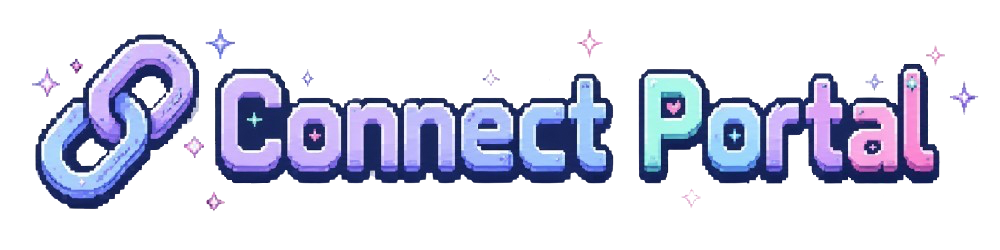
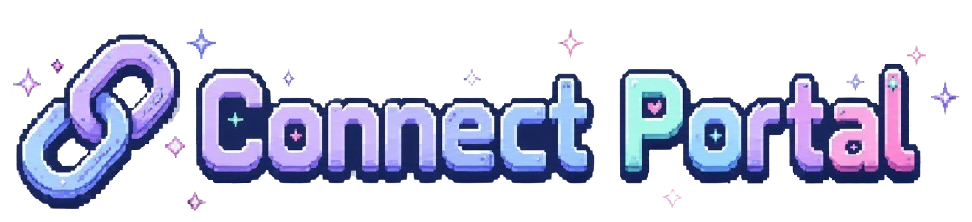
수정

diff --git a/README.md b/README.md
@@ -9,7 +9,7 @@
 ---
 
 <p align="center">
-  <img src="./assets/about.png" alt="🐾 About" height="55" />
+  <img src="./assets/about.png" alt="🐾 About" height="66" />
 </p>
 
 ```yaml
@@ -30,25 +30,29 @@ kyoung9:
 ---
 
 <p align="center">
-  <img src="./assets/skills_inventory.png" alt="🧰 Skills Inventory" height="80" />
+  <img src="./assets/skills_inventory.png" alt="🧰 Skills Inventory" height="100" />
 </p>
 
 <div align="center">
   <table>
     <tr>
-      <td><img src="https://img.shields.io/badge/Next.js-000000?style=flat-square&logo=nextdotjs&logoColor=white" /></td>
-      <td><img src="https://img.shields.io/badge/React-61DAFB?style=flat-square&logo=react&logoColor=black" /></td>
-      <td><img src="https://img.shields.io/badge/TypeScript-3178C6?style=flat-square&logo=typescript&logoColor=white" /></td>
-      <td><img src="https://img.shields.io/badge/Python-3776AB?style=flat-square&logo=python&logoColor=white" /></td>
+      <td align="center">
+        <img src="https://img.shields.io/badge/Next.js-000000?style=flat-square&logo=nextdotjs&logoColor=white" />
+        <img src="https://img.shields.io/badge/React-61DAFB?style=flat-square&logo=react&logoColor=black" />
+        <img src="https://img.shields.io/badge/TypeScript-3178C6?style=flat-square&logo=typescript&logoColor=white" />
+        <img src="https://img.shields.io/badge/Python-3776AB?style=flat-square&logo=python&logoColor=white" />
+      </td>
     </tr>
     <tr>
-      <td><img src="https://img.shields.io/badge/AWS-232F3E?style=flat-square&logo=amazonaws&logoColor=white" /></td>
-      <td><img src="https://img.shields.io/badge/Supabase-3FCF8E?style=flat-square&logo=supabase&logoColor=white" /></td>
-      <td><img src="https://img.shields.io/badge/PostgreSQL-4169E1?style=flat-square&logo=postgresql&logoColor=white" /></td>
-      <td><img src="https://img.shields.io/badge/OpenAI-412991?style=flat-square&logo=openai&logoColor=white" /></td>
+      <td align="center">
+        <img src="https://img.shields.io/badge/AWS-232F3E?style=flat-square&logo=amazonaws&logoColor=white" />
+        <img src="https://img.shields.io/badge/Supabase-3FCF8E?style=flat-square&logo=supabase&logoColor=white" />
+        <img src="https://img.shields.io/badge/PostgreSQL-4169E1?style=flat-square&logo=postgresql&logoColor=white" />
+      </td>
     </tr>
     <tr>
-      <td colspan="4" align="center">
+      <td align="center">
+        <img src="https://img.shields.io/badge/OpenAI-412991?style=flat-square&logo=openai&logoColor=white" />
         <img src="https://img.shields.io/badge/Gemini-886FBF?style=flat-square&logo=googlegemini&logoColor=white" />
       </td>
     </tr>
@@ -58,7 +62,7 @@ kyoung9:
 ---
 
 <p align="center">
-  <img src="./assets/research.png" alt="🔬 Research" height="60" />
+  <img src="./assets/research.png" alt="🔬 Research" height="70" />
 </p>
 
 <p align="center">
@@ -68,7 +72,7 @@ kyoung9:
 ---
 
 <p align="center">
-  <img src="./assets/github_stats.png" alt="📊 GitHub Stats" height="90" />
+  <img src="./assets/github_stats.png" alt="📊 GitHub Stats" height="60" />
 </p>
 
 <div align="center">
@@ -95,7 +99,7 @@ kyoung9:
 ---
 
 <p align="center">
-  <img src="./assets/connect_portal.png" alt="🔗 Connect Portal" height="58" />
+  <img src="./assets/connect_portal.png" alt="🔗 Connect Portal" height="73" />
 </p>
 
 <p align="center">
